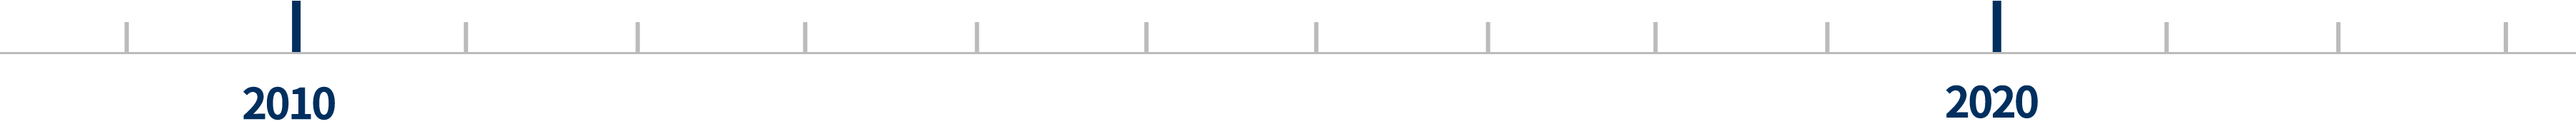
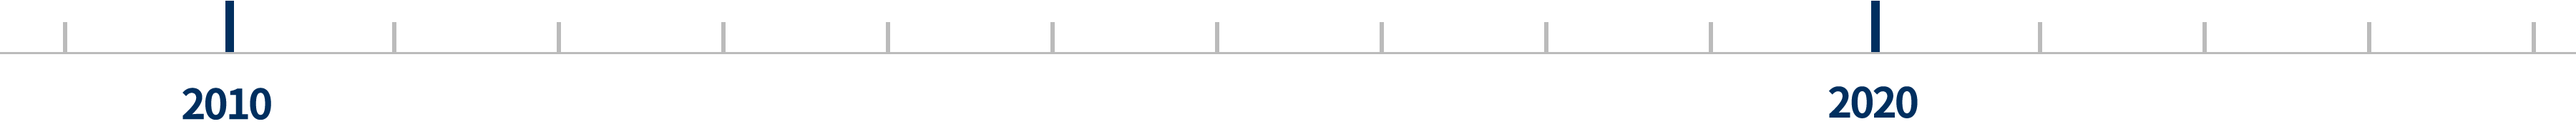
브랜드 통합 수정

diff --git a/_ui/publishing_guide_brand.html b/_ui/publishing_guide_brand.html
@@ -361,7 +361,7 @@
 						<td class="taCenter owner"><span class="partPlan">김낙기</span><span class="partDesign">김미영</span><span class="partPub">황혜원</span></td>
 						<td class="taCenter">2018.07.27</td>
 						<td class="note">
-							<p style="color:#ff0000"> </p>
+							<p style="color:#ff0000"> 이미지/모바일 대기  W/F 변경 </p>
 						</td>
 					 </tr>
 					 <tr>
@@ -382,7 +382,7 @@
 						<td class="taCenter owner"><span class="partPlan">김낙기</span><span class="partDesign">김미영</span><span class="partPub">황혜원</span></td>
 						<td class="taCenter">2018.07.27</td>
 						<td class="note">
-							<p style="color:#ff0000"> </p>
+							<p style="color:#ff0000">이미지/모바일 대기  W/F 변경 </p>
 						</td>
 					 </tr>
 					 <tr>
@@ -403,7 +403,7 @@
 						<td class="taCenter owner"><span class="partPlan">김낙기</span><span class="partDesign">김미영</span><span class="partPub">황혜원</span></td>
 						<td class="taCenter">2018.07.27</td>
 						<td class="note">
-							<p style="color:#ff0000"> </p>
+							<p style="color:#ff0000">이미지/모바일 대기  W/F 변경 </p>
 						</td>
 					 </tr>
 					 <tr>
@@ -424,7 +424,7 @@
 						<td class="taCenter owner"><span class="partPlan">김낙기</span><span class="partDesign">김미영</span><span class="partPub">-</span></td>
 						<td class="taCenter">2018.00.00</td>
 						<td class="note">
-							<p style="color:#ff0000"> </p>
+							<p style="color:#ff0000">이미지/모바일 대기  W/F 변경 </p>
 						</td>
 					 </tr>
 					 <tr>
@@ -445,7 +445,7 @@
 						<td class="taCenter owner"><span class="partPlan">김낙기</span><span class="partDesign">김미영</span><span class="partPub">황혜원</span></td>
 						<td class="taCenter">2018.07.31</td>
 						<td class="note">
-							<p style="color:#ff0000"> </p>
+							<p style="color:#ff0000">이미지/모바일 대기  W/F 변경 </p>
 						</td>
 					 </tr>
 					 <tr>
@@ -466,7 +466,7 @@
 						<td class="taCenter owner"><span class="partPlan">김낙기</span><span class="partDesign">김미영</span><span class="partPub">황혜원</span></td>
 						<td class="taCenter">2018.07.31</td>
 						<td class="note">
-							<p style="color:#ff0000"> </p>
+							<p style="color:#ff0000">이미지/모바일 대기  W/F 변경 </p>
 						</td>
 					 </tr>
 					 <tr>
@@ -487,7 +487,7 @@
 						<td class="taCenter owner"><span class="partPlan">김낙기</span><span class="partDesign">김미영</span><span class="partPub">황혜원</span></td>
 						<td class="taCenter">2018.07.31</td>
 						<td class="note">
-							<p style="color:#ff0000"> </p>
+							<p style="color:#ff0000">이미지/모바일 대기  W/F 변경 </p>
 						</td>
 					 </tr>
 					 <tr>
@@ -508,7 +508,7 @@
 						<td class="taCenter owner"><span class="partPlan">김낙기</span><span class="partDesign">김미영</span><span class="partPub">황혜원</span></td>
 						<td class="taCenter">2018.07.31</td>
 						<td class="note">
-							<p style="color:#ff0000"> </p>
+							<p style="color:#ff0000">이미지/모바일 대기  W/F 변경 </p>
 						</td>
 					 </tr>
 				</tbody>
@@ -566,7 +566,7 @@
 						<td class="taCenter owner"><span class="partPlan">김낙기</span><span class="partDesign">김미영</span><span class="partPub">황혜원</span></td>
 						<td class="taCenter">2018.08.07</td>
 						<td class="note">
-							<p style="color:#ff0000">이미지 / 모바일</p>
+							<p style="color:#ff0000">이미지/모바일 대기</p>
 						</td>
 					</tr>
 
@@ -584,12 +584,12 @@
 						<td class="taCenter">●</td>
 						<td class="taCenter">&nbsp;</td>
 						<td class="taCenter"></td>
-						<td class="statD">●</td>
+						<td class="statD">○</td>
 						<td class="stat"></td>
 						<td class="taCenter owner"><span class="partPlan">김낙기</span><span class="partDesign">김미영</span><span class="partPub">황혜원</span></td>
 						<td class="taCenter">2018.08.08</td>
 						<td class="note">
-							<p style="color:#ff0000"> </p>
+							<p style="color:#ff0000">모바일 대기 </p>
 						</td>
 					</tr>
 					<tr>
@@ -605,12 +605,12 @@
 						<td class="taCenter">●</td>
 						<td class="taCenter">&nbsp;</td>
 						<td class="taCenter"></td>
-						<td class="statD">●</td>
+						<td class="statD">○</td>
 						<td class="stat"></td>
 						<td class="taCenter owner"><span class="partPlan">김낙기</span><span class="partDesign">김미영</span><span class="partPub">황혜원</span></td>
 						<td class="taCenter">2018.08.08</td>
 						<td class="note">
-							<p style="color:#ff0000"> </p>
+							<p style="color:#ff0000">모바일 대기 </p>
 						</td>
 					</tr>
 					<tr>
@@ -626,12 +626,12 @@
 						<td class="taCenter">●</td>
 						<td class="taCenter">&nbsp;</td>
 						<td class="taCenter"></td>
-						<td class="statD">●</td>
+						<td class="statD">○</td>
 						<td class="stat"></td>
 						<td class="taCenter owner"><span class="partPlan">김낙기</span><span class="partDesign">김미영</span><span class="partPub">황혜원</span></td>
 						<td class="taCenter">2018.08.08</td>
 						<td class="note">
-							<p style="color:#ff0000"> </p>
+							<p style="color:#ff0000">이미지/모바일 대기 </p>
 						</td>
 					</tr>
 					<tr>
@@ -647,12 +647,12 @@
 						<td class="taCenter">●</td>
 						<td class="taCenter">&nbsp;</td>
 						<td class="taCenter"></td>
-						<td class="statD">●</td>
+						<td class="statD">○</td>
 						<td class="stat"></td>
 						<td class="taCenter owner"><span class="partPlan">김낙기</span><span class="partDesign">김미영</span><span class="partPub">황혜원</span></td>
 						<td class="taCenter">2018.08.09</td>
 						<td class="note">
-							<p style="color:#ff0000"> </p>
+							<p style="color:#ff0000">모바일 대기 </p>
 						</td>
 					</tr>
 					<tr>
@@ -668,12 +668,12 @@
 						<td class="taCenter">●</td>
 						<td class="taCenter">&nbsp;</td>
 						<td class="taCenter"></td>
-						<td class="statD">●</td>
+						<td class="statD">○</td>
 						<td class="stat"></td>
 						<td class="taCenter owner"><span class="partPlan">김낙기</span><span class="partDesign">김미영</span><span class="partPub">황혜원</span></td>
 						<td class="taCenter">2018.08.08</td>
 						<td class="note">
-							<p style="color:#ff0000"> </p>
+							<p style="color:#ff0000">이미지/모바일 대기 </p>
 						</td>
 					</tr>
 					<tr>
@@ -689,7 +689,7 @@
 						<td class="taCenter">●</td>
 						<td class="taCenter">&nbsp;</td>
 						<td class="taCenter"></td>
-						<td class="statD">●</td>
+						<td class="statD">○</td>
 						<td class="stat"></td>
 						<td class="taCenter owner"><span class="partPlan">김낙기</span><span class="partDesign">김미영</span><span class="partPub">황혜원</span></td>
 						<td class="taCenter">2018.08.08</td>
@@ -710,7 +710,7 @@
 						<td class="taCenter">●</td>
 						<td class="taCenter">&nbsp;</td>
 						<td class="taCenter"></td>
-						<td class="statD">●</td>
+						<td class="statD">○</td>
 						<td class="stat"></td>
 						<td class="taCenter owner"><span class="partPlan">김낙기</span><span class="partDesign">김미영</span><span class="partPub">황혜원</span></td>
 						<td class="taCenter">2018.08.08</td>
@@ -733,12 +733,12 @@
 						<td class="taCenter">●</td>
 						<td class="taCenter">&nbsp;</td>
 						<td class="taCenter"></td>
-						<td class="statD">●</td>
+						<td class="statD">○</td>
 						<td class="stat"></td>
 						<td class="taCenter owner"><span class="partPlan">김낙기</span><span class="partDesign">김미영</span><span class="partPub">황혜원</span></td>
 						<td class="taCenter">2018.08.13</td>
 						<td class="note">
-							<p style="color:#ff0000"> </p>
+							<p style="color:#ff0000">이미지/모바일 대기 </p>
 						</td>
 					</tr>
 					<tr>
@@ -759,7 +759,7 @@
 						<td class="taCenter owner"><span class="partPlan">김낙기</span><span class="partDesign">김미영</span><span class="partPub">임재영</span></td>
 						<td class="taCenter">2018.08.13</td>
 						<td class="note">
-							<p style="color:#ff0000"> 이미지 / 모바일 </p>
+							<p style="color:#ff0000"> </p>
 						</td>
 					</tr>
 					<tr>
@@ -780,7 +780,7 @@
 						<td class="taCenter owner"><span class="partPlan">김낙기</span><span class="partDesign">김미영</span><span class="partPub">임재영</span></td>
 						<td class="taCenter">2018.08.13</td>
 						<td class="note">
-							<p style="color:#ff0000"> 이미지 / 모바일 </p>
+							<p style="color:#ff0000"> 이미지 대기 </p>
 						</td>
 					</tr>
 					<tr>
@@ -801,7 +801,7 @@
 						<td class="taCenter owner"><span class="partPlan">김낙기</span><span class="partDesign">김미영</span><span class="partPub">임재영</span></td>
 						<td class="taCenter">2018.08.13</td>
 						<td class="note">
-							<p style="color:#ff0000"> 이미지 / 모바일 </p>
+							<p style="color:#ff0000">모바일 대기 </p>
 						</td>
 					</tr>
 					<tr>
@@ -822,7 +822,7 @@
 						<td class="taCenter owner"><span class="partPlan">김낙기</span><span class="partDesign">김미영</span><span class="partPub">임재영</span></td>
 						<td class="taCenter">2018.08.13</td>
 						<td class="note">
-							<p style="color:#ff0000"> 이미지 / 모바일 </p>
+							<p style="color:#ff0000"> 이미지/모바일 대기 </p>
 						</td>
 					</tr>
 
@@ -2447,7 +2447,7 @@
 						<td rowspan="3" class="taCenter owner"><span class="partPlan">김낙기</span><span class="partDesign">김미영</span><span class="partPub">임재영</span></td>
 						<td rowspan="3" class="taCenter">2018.08.07</td>
 						<td rowspan="3" class="note">
-							<p style="color:#ff0000"> 이미지 / 모바일  </p>
+							<p style="color:#ff0000"> 이미지/모바일 대기  </p>
 						</td>
 					</tr>
 					<tr>
@@ -2649,7 +2649,7 @@
 						<td class="taCenter owner"><span class="partPlan">김낙기</span><span class="partDesign">김미영</span><span class="partPub">임재영</span></td>
 						<td class="taCenter">2018.08.09</td>
 						<td class="note">
-							<p style="color:#ff0000"> 이미지 / 모바일 </p>
+							<p style="color:#ff0000"> 이미지/모바일 대기 </p>
 						</td>
 					</tr>
 
@@ -2672,7 +2672,7 @@
 						<td class="taCenter owner"><span class="partPlan">김낙기</span><span class="partDesign">김미영</span><span class="partPub">임재영</span></td>
 						<td class="taCenter">2018.08.29</td>
 						<td class="note">
-							<p style="color:#ff0000"> 이미지 / 모바일 </p>
+							<p style="color:#ff0000"> 이미지/모바일 대기 </p>
 						</td>
 					</tr>
 					<tr>
@@ -2693,7 +2693,7 @@
 						<td rowspan="5" class="taCenter owner"><span class="partPlan">김낙기</span><span class="partDesign">김미영</span><span class="partPub">임재영</span></td>
 						<td rowspan="5" class="taCenter">2018.08.07</td>
 						<td rowspan="5" class="note">
-							<p style="color:#ff0000"> 이미지 / 모바일 </p>
+							<p style="color:#ff0000"> 이미지/모바일 대기 </p>
 						</td>
 					</tr>
 					<tr>

diff --git a/_ui/responsive/theme-blue/css/akl-brand.css b/_ui/responsive/theme-blue/css/akl-brand.css
@@ -296,9 +296,9 @@ Editor : HYEWON HWANG
 
 
 /* 연혁 */
-.brand .box-bnr-history .txt-wrap strong, .box-bnr-history .txt-wrap p {color:#fff !important;}
-.brand .box-bnr-history .txt-wrap p {font-size:16px !important; font-weight:300 !important;}
-.brand .box-bnr-history .txt-wrap p em {display:block;font-size:18px; color:#fff;font-weight:500;font-style:normal;}
+.box-bnr-fw01 .txt-wrap strong, .box-bnr-fw01 .txt-wrap p {color:#fff !important;}
+.brand .box-bnr-fw01 .txt-wrap p {font-size:16px !important; font-weight:300 !important;}
+.brand .box-bnr-fw01 .txt-wrap p em {display:block;font-size:18px; color:#fff;font-weight:500;font-style:normal;}
 .history .content-row article .cont-type1 figcaption {padding:20px 20px;text-align:center;}
 .history p.bdbtm {border-bottom:1px solid #e3e3e3;padding-bottom:20px;font-size:16px;margin:-10px 0 0;}
 
@@ -377,6 +377,15 @@ Editor : HYEWON HWANG
   display: inline-block;
   margin-right:138.5px;
 }
+.timeline.s1 .owl-dots {
+  background: url("/_ui/responsive/theme-blue/images/akl_brand/about/company_timeline_bg2.png") no-repeat center top;
+  background-size: 1400px auto;
+  width: 1400px;
+  padding: 8px 0 20px 296px;
+}
+.timeline.s1 .owl-dots .owl-dot {
+  margin-right:74.0px;
+}
 .timeline .owl-dots .owl-dot span {
   width: 12px;
   height: 12px;
@@ -393,23 +402,6 @@ Editor : HYEWON HWANG
 .timeline .owl-dots .owl-dot.active span {
   background: #008fc5;
 } 
-.timeline .owl-dots {
-  background: url("/_ui/responsive/theme-blue/images/akl_brand/about/company_timeline_bg.png") no-repeat center top;
-  background-size: 1400px auto;
-  width: 1400px;
-  /*padding: 8px 11.3% 20px 11.3%;*/
-  padding: 8px 153px 20px;
-  margin: 0 auto;
-  height: 74px;
-  text-align: left;
-  right:auto;
-  bottom:auto;
-}
-.timeline .owl-dots .owl-dot {
-  opacity: 0;
-  display: inline-block;
-  margin-right:138.5px;
-}
 
 /* 부산 아시아 물류 허브 센터 */    
 .hubcenter .ui-snap-big {margin:40px auto;height:400px;}

diff --git a/_ui/responsive/html/brand/B20502.html b/_ui/responsive/html/brand/B20502.html
@@ -112,18 +112,15 @@
 					</div>
 				</div>
 				<!-- //sns 영역 -->
-				<h1 class="title-h2">한국암웨이 소개</h1>
-				<p class="tit-txt">1991년을 시작으로 한국 사회와 함께 성장해온 한국암웨이를 소개합니다.</p>
+				<h1 class="title-h2">암웨이 퀸 요리명장</h1>
 			
 				<section class="full-component">
-					<div class="box-bnr-history">
+					<div class="box-bnr-fw01">
 						<img class="pc" src="../../theme-blue/images/akl_brand/about/historyimg_01.jpg" alt="" />
 						<img class="mob" src="/_ui/responsive/theme-blue/images/akl_brand/about/historyimg_01.jpg" alt="">
 						<div class="txt-wrap">
-							<strong>한국암웨이는,</strong>
-							<p>1988년 국내 현지 법인을 설립하고<br>1991년 5월 국내영업을 시작했습니다.<br><br>(사)한국직접판매협회 등록을 시작으로 한국암웨이는 한국 소비자들의<br> 
-							신뢰 속에 성장해 왔으며, 방문판매 등에 관한 법률을 철저히 준수하는 <br>건전한 사업을 통해 ABO에게 성공의 기회를 제공하고 있습니다.
-							</p> 
+							<strong>요리명장<br>AMWAY QUEEN COOK MASTER</strong>
+							<p>암웨이 퀸 요리명장은 암웨이 쿡웨어로 맛과 영양이 풍부한 요리를 직접 만들어 <br>널리 알리는 ‘암웨이 퀸‘ 브랜드 및 제품 홍보 대사입니다.</p> 
 						</div>
 					</div>
 				</section>

diff --git a/_ui/responsive/html/brand/B10201.html b/_ui/responsive/html/brand/B10201.html
@@ -115,7 +115,7 @@
 				<p class="tit-txt">반 세기 동안 이어진 글로벌 암웨이의 도전과 혁신의 역사를 소개합니다.</p>
 				
 				<section class="full-component">
-					<div class="box-bnr-history">
+					<div class="box-bnr-fw01">
 						<img class="pc" src="../../theme-blue/images/akl_brand/about/historyimg_01.jpg" alt="" />
 						<img class="mob" src="/_ui/responsive/theme-blue/images/akl_brand/about/historyimg_01.jpg" alt="">
 						<div class="txt-wrap">
